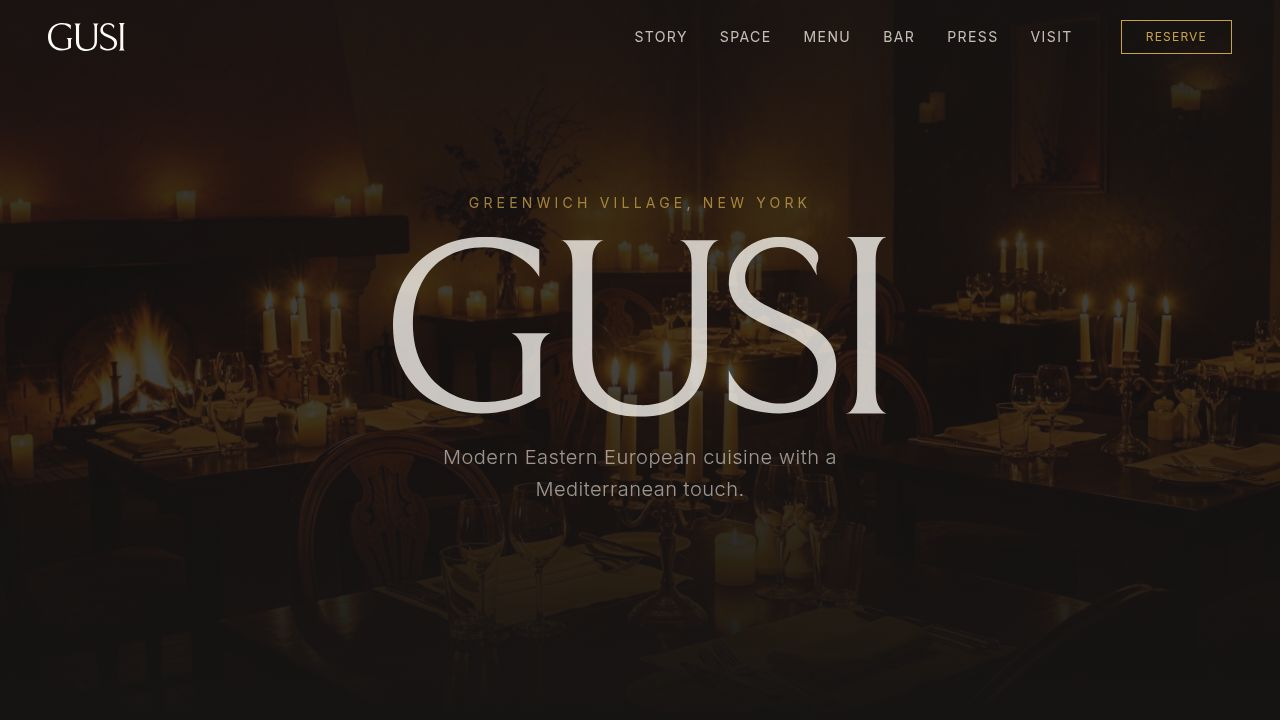
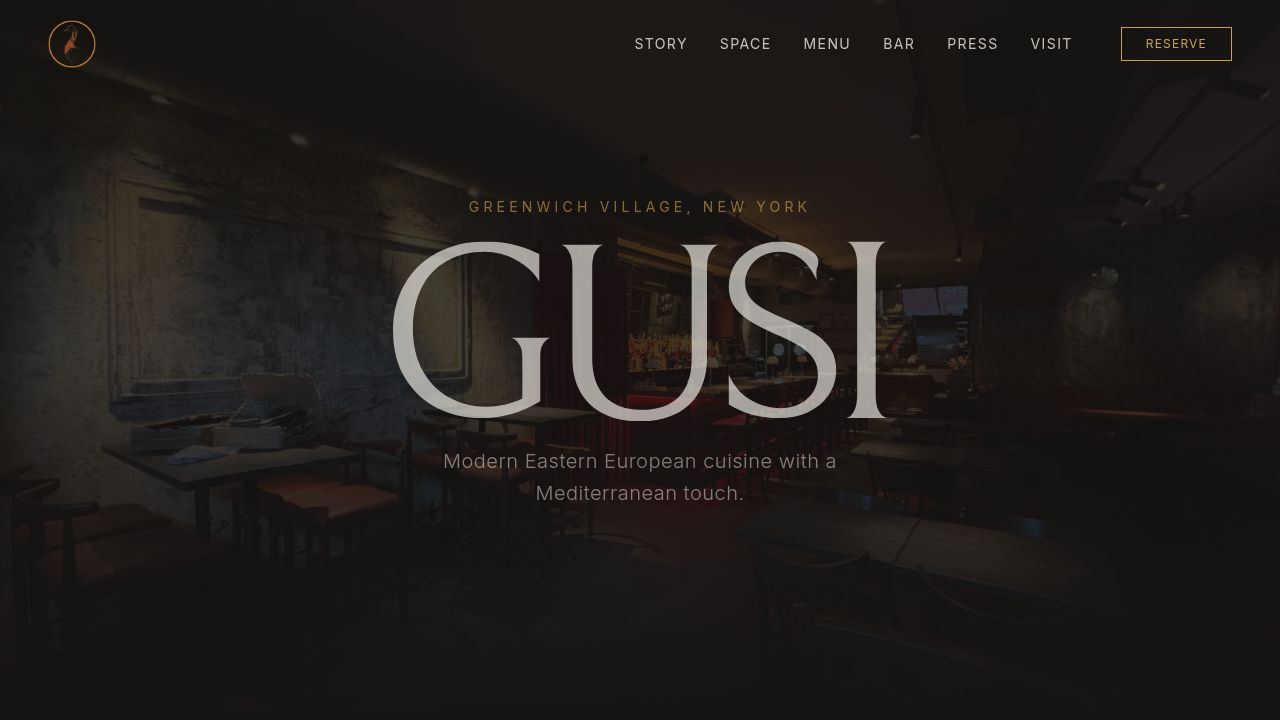
Improve mobile user experience with various refinements
Update CSS and component styles to enhance mobile responsiveness, including larger touch targets, better text contrast, and optimized layout for smaller screens.

Replit-Commit-Author: Agent
Replit-Commit-Session-Id: 7f449d44-b64b-4542-8527-8221f1f65850
Replit-Commit-Checkpoint-Type: full_checkpoint
Replit-Commit-Event-Id: 16b1c8a2-8be9-4656-a54d-8d075c3bcacc
Replit-Commit-Screenshot-Url: https://storage.googleapis.com/screenshot-production-us-central1/46412e4d-9bad-47df-b943-d23101e8693f/7f449d44-b64b-4542-8527-8221f1f65850/uZYtS29
Replit-Helium-Checkpoint-Created: true

diff --git a/artifacts/gusi/src/index.css b/artifacts/gusi/src/index.css
@@ -118,16 +118,57 @@
 
 html {
   scroll-behavior: smooth;
+  -webkit-text-size-adjust: 100%;
+  text-size-adjust: 100%;
+}
+
+html, body {
+  overflow-x: clip;
+  overscroll-behavior-y: none;
+}
+
+body {
+  -webkit-font-smoothing: antialiased;
+  -moz-osx-font-smoothing: grayscale;
+  text-rendering: optimizeLegibility;
+}
+
+/* Remove the blue/grey tap flash on iOS/Android while keeping focus rings intact */
+a, button, [role="button"], input, select, textarea, summary {
+  -webkit-tap-highlight-color: transparent;
+}
+
+/* Better hit targets for primary tap targets on touch devices */
+@media (hover: none) and (pointer: coarse) {
+  a, button, [role="button"] {
+    touch-action: manipulation;
+  }
+}
+
+/* Prevent iOS auto-zoom on form inputs (font-size < 16px triggers zoom) */
+input, select, textarea {
+  font-size: 16px;
 }
 
 @media (prefers-reduced-motion: reduce) {
   html {
     scroll-behavior: auto;
   }
+  *, *::before, *::after {
+    animation-duration: 0.01ms !important;
+    animation-iteration-count: 1 !important;
+    transition-duration: 0.01ms !important;
+  }
 }
 
 section[id] {
   scroll-margin-top: 80px;
+}
+
+@media (max-width: 640px) {
+  section[id] {
+    scroll-margin-top: 64px;
+  }
 }
 
 .scrollbar-hide {

diff --git a/artifacts/gusi/src/components/Header.tsx b/artifacts/gusi/src/components/Header.tsx
@@ -110,13 +110,13 @@ export function Header() {
         <div className="flex items-center gap-2 sm:gap-3 lg:hidden">
           <a
             href={anchor("reservations")}
-            className="inline-flex items-center justify-center min-h-10 border border-gusi-gold text-gusi-gold px-4 py-2 uppercase tracking-[0.18em] text-[11px] leading-none hover:bg-gusi-gold hover:text-gusi-charcoal transition-colors focus:outline-none focus-visible:ring-2 focus-visible:ring-gusi-gold/60 focus-visible:ring-offset-2 focus-visible:ring-offset-gusi-charcoal"
+            className="inline-flex items-center justify-center min-h-11 border border-gusi-gold text-gusi-gold px-4 py-2 uppercase tracking-[0.18em] text-[11px] leading-none hover:bg-gusi-gold hover:text-gusi-charcoal transition-colors focus:outline-none focus-visible:ring-2 focus-visible:ring-gusi-gold/60 focus-visible:ring-offset-2 focus-visible:ring-offset-gusi-charcoal"
           >
             Reserve
           </a>
           <button
             onClick={() => setMobileMenuOpen(true)}
-            className="text-gusi-ivory p-2 -mr-2 focus:outline-none focus-visible:ring-2 focus-visible:ring-gusi-gold/60 rounded-sm"
+            className="inline-flex items-center justify-center w-11 h-11 -mr-2 text-gusi-ivory focus:outline-none focus-visible:ring-2 focus-visible:ring-gusi-gold/60 rounded-sm"
             aria-label="Open menu"
             aria-expanded={mobileMenuOpen}
           >
@@ -149,7 +149,7 @@ export function Header() {
               </Link>
               <button
                 onClick={closeMobile}
-                className="text-gusi-ivory p-2 -mr-2 focus:outline-none focus-visible:ring-2 focus-visible:ring-gusi-gold/60 rounded-sm"
+                className="inline-flex items-center justify-center w-11 h-11 -mr-2 text-gusi-ivory focus:outline-none focus-visible:ring-2 focus-visible:ring-gusi-gold/60 rounded-sm"
                 aria-label="Close menu"
               >
                 <X className="w-7 h-7" strokeWidth={1} />

diff --git a/artifacts/gusi/src/components/OpenTableWidget.tsx b/artifacts/gusi/src/components/OpenTableWidget.tsx
@@ -54,16 +54,16 @@ export function OpenTableWidget() {
   }, [shouldLoad]);
 
   return (
-    <div ref={sentinelRef} className="mb-4 sm:mb-6 w-fit mx-auto sm:mx-0">
+    <div ref={sentinelRef} className="mb-4 sm:mb-6 w-full sm:w-fit mx-auto sm:mx-0">
       <section
         aria-label="OpenTable reservation widget"
-        className="border border-gusi-gold/30 overflow-hidden inline-block leading-[0]"
+        className="border border-gusi-gold/30 overflow-hidden block sm:inline-block leading-[0] [&_iframe]:max-w-full"
       >
         <div
           ref={containerRef}
           aria-live="polite"
           aria-busy={shouldLoad}
-          className="opentable-widget-container block [&_iframe]:block [&_iframe]:align-bottom [&_iframe]:-mb-8"
+          className="opentable-widget-container block [&_iframe]:block [&_iframe]:max-w-full [&_iframe]:align-bottom [&_iframe]:-mb-8"
         >
           <span className="sr-only">
             {shouldLoad